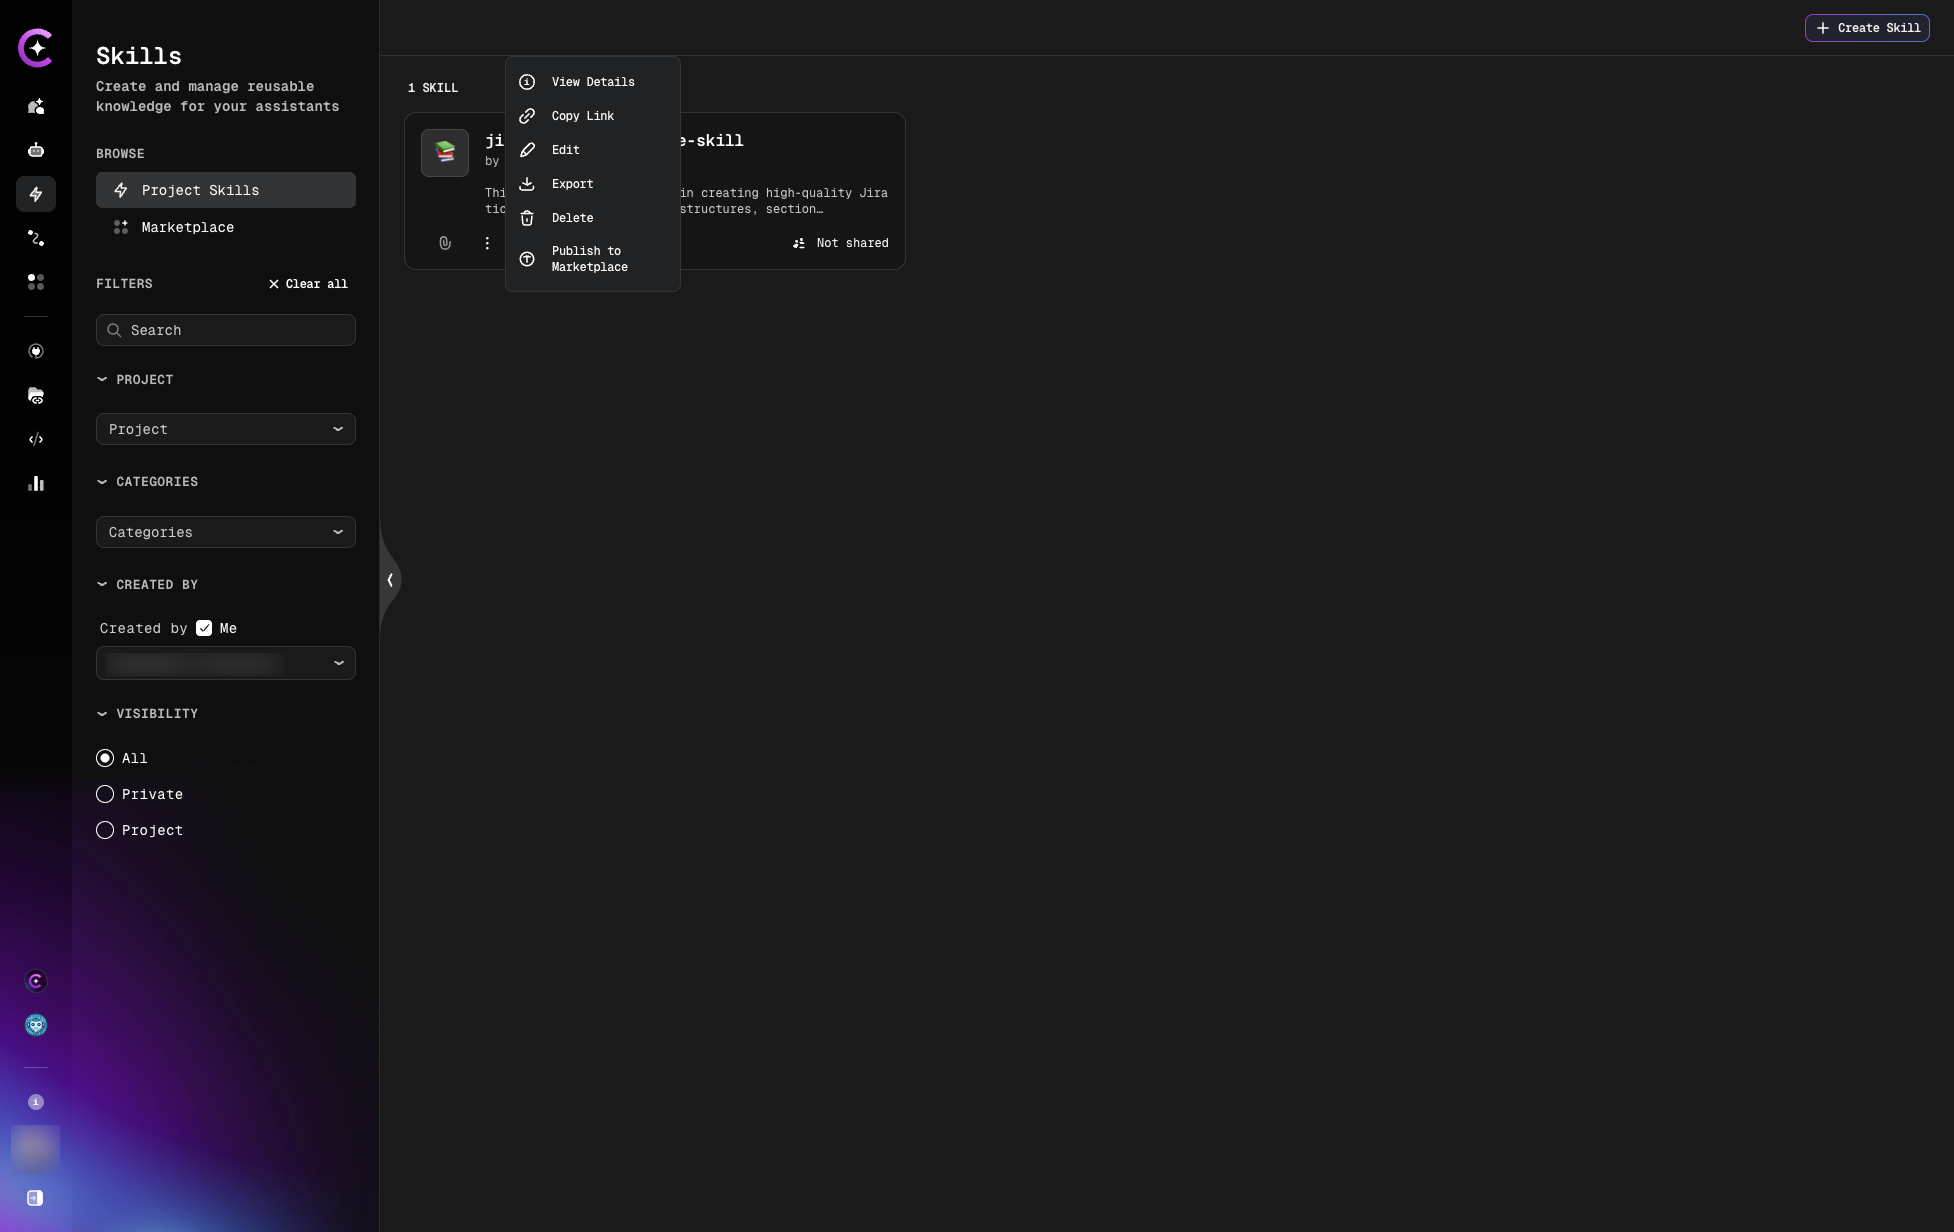
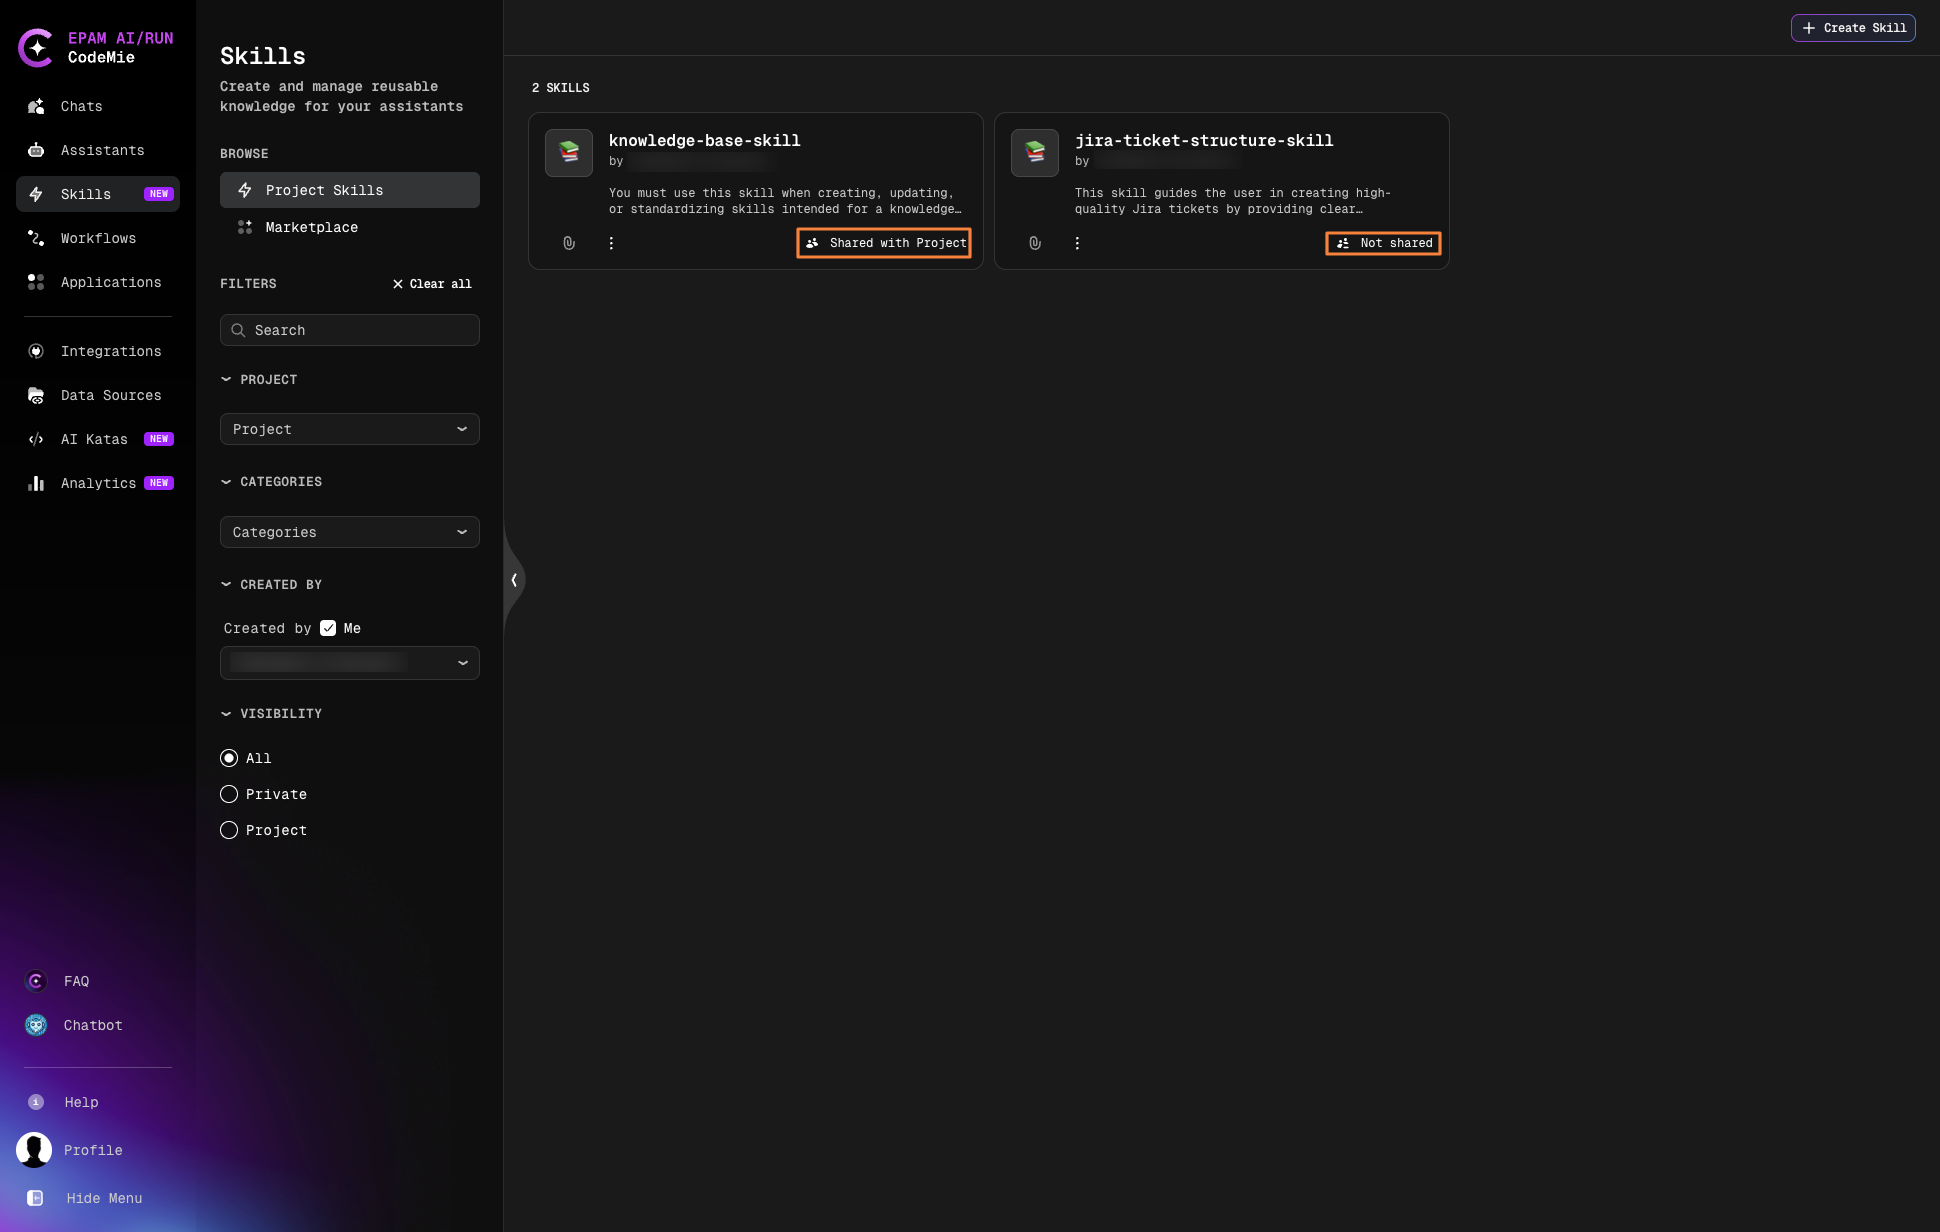
docs(user-guide): expand skills marketplace usage and add sharing status screenshots

Pull request: docs(user-guide): expand skills marketplace usage and add sharing status screenshots
## Summary

Fills the documentation gap in the Skills Marketplace section and makes use of three previously unreferenced screenshots.

## Changes

- Expanded the thin "Add Marketplace Skill to Assistant" section in `marketplace-skills.md` with proper numbered steps
- Added new "Use a Marketplace Skill in Chat" subsection with step-by-step instructions and screenshot
- Added publish success notification screenshot after the publish confirmation step
- Added skill sharing status badge screenshot to the Sharing Settings table in `manage-skills.md`

## Testing

- [x] Tested locally with `npm start`
- [x] All pages render correctly
- [x] Images display properly
- [x] Internal links work
- [x] Sidebar navigation works

## Quality Checks

- [x] `npm run check` passes (typecheck + lint + commitlint)
- [x] No MDX compilation errors
- [x] No raw angle brackets (`<text>` must be `` `<text>` ``)
- [x] Sidebar references document IDs (not filenames)
- [x] Images stored locally next to content (not in `static/img/`)
- [x] Commit messages follow Conventional Commits
- [x] No secrets or credentials in documentation

## Additional Notes

Relates to EPMCDME-10315.

diff --git a/docs/user-guide/skills/marketplace-skills.md b/docs/user-guide/skills/marketplace-skills.md
@@ -78,9 +78,28 @@ Click **× Clear filters** to reset all filters and view the complete marketplac
 
 ### Add Marketplace Skill to Assistant
 
-1. Edit your assistant
-2. In Skills section select from the dropdown menu Marketplace skill
-3. Attach to assistant
+1. Navigate to **Assistants** and open the assistant you want to update
+2. Click **Edit**
+3. Scroll to the **Skills** section
+4. Open the dropdown and select a skill from the **Marketplace** group
+5. Click **Save**
+
+The skill is now attached to the assistant and will load automatically when relevant to the user's request.
+
+### Use a Marketplace Skill in Chat
+
+You can also attach marketplace skills directly in a chat session without modifying the assistant:
+
+1. Open a chat with any assistant
+2. Click the **Skills** button in the chat input toolbar
+3. In the **Attach Skills** modal, switch to the **Marketplace Skills** tab
+4. Select the skill and click **Confirm**
+
+The skill is active for the current conversation only. Other chats with the same assistant are not affected.
+
+:::tip
+Use chat-level attachment to try a marketplace skill before permanently adding it to an assistant.
+:::
 
 ## Publishing Skills to Marketplace
 
@@ -118,6 +137,10 @@ In the **Publish to Marketplace** dialog, select at least one category:
 2. The skill is published to the marketplace
 
 ![Skill Publish Confirmation](./images/skill-publish-confirmation.png)
+
+A confirmation notification appears when the skill is successfully published:
+
+![Publish Success Notification](./images/publish-success-notification.png)
 
 The skill now appears in the Marketplace and is available for other users to discover and use.
 

diff --git a/docs/user-guide/skills/manage-skills.md b/docs/user-guide/skills/manage-skills.md
@@ -227,6 +227,10 @@ Control who can see and use your skill:
 | **Project**     | All members of the project | Enable Project sharing toggle |
 | **Marketplace** | Public - all CodeMie users | Publish skill to Marketplace  |
 
+The current sharing status is shown as a badge on each skill card — either **Not Shared** (private) or **Shared with Project**:
+
+![Skill Card with Sharing Status](./images/skill-published-status.png)
+
 To share with your project:
 
 1. Edit the skill